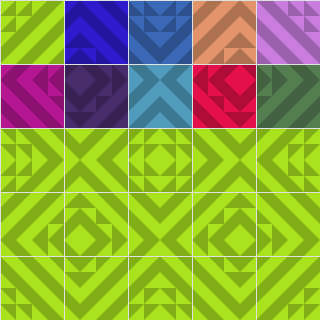
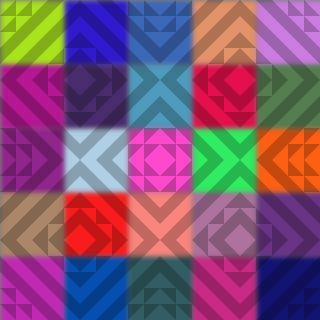
Read The Desc
* Shifted back the map loading logic into a separate class, MapLoader
* Generalised all kinds of drawing, ie, TextureRegion (a single image), Animation (gif animation like) and Map Tiles into the GeneralRenderingEngine

diff --git a/core/src/main/java/in/mcxiv/game/main/screens/MapViewerScreen.java b/core/src/main/java/in/mcxiv/game/main/screens/MapViewerScreen.java
@@ -16,11 +16,13 @@ import com.badlogic.gdx.math.Vector3;
 import com.badlogic.gdx.scenes.scene2d.Stage;
 import com.badlogic.gdx.utils.Align;
 import com.badlogic.gdx.utils.viewport.ExtendViewport;
+import com.kotcrab.vis.ui.widget.VisLabel;
 import com.kotcrab.vis.ui.widget.VisTable;
+import com.kotcrab.vis.ui.widget.VisTextArea;
 import in.mcxiv.game.main.MainEngine;
 import in.mcxiv.game.main.Resources;
-import in.mcxiv.game.systems.MapRenderingSystem;
-import in.mcxiv.game.systems.TextureRegionRenderingSystem;
+import in.mcxiv.game.main.maps.MapLoader;
+import in.mcxiv.game.systems.GeneralRenderingSystem;
 import in.mcxiv.game.util.GdxUtils;
 import in.mcxiv.game.util.InputProcessorIAdapter;
 
@@ -31,15 +33,13 @@ public class MapViewerScreen extends ScreenAdapter implements InputProcessorIAda
 
     public static final float CAMERA_MOVEMENT_SPEED = 2.5f;
     private static final WorldConfiguration CONFIGURATION = new WorldConfigurationBuilder()
-            .with(
-                    new MapRenderingSystem(),
-                    new TextureRegionRenderingSystem()
-            ).build();
+            .with(new GeneralRenderingSystem()).build();
 
     //////////////////////////
 
     public Stage mainStage;
     public VisTable mainTable;
+    public MapLoader mapLoader;
 
     //////////////////////////
 
@@ -68,6 +68,13 @@ public class MapViewerScreen extends ScreenAdapter implements InputProcessorIAda
         mainTable.setFillParent(true);
         mainTable.add(GdxUtils.createButton("Back", () -> MainEngine.getInstance().setScreen(MainEngine.getInstance().srn_home)))
                 .expand().pad(10).align(Align.topLeft);
+        mainTable.add(new VisLabel("" +
+                                   "Use WASD to move around\n" +
+                                   "Another line of instruction\n" +
+                                   "just to see the multiline\n" +
+                                   "in action." +
+                                   ""))
+                .expand().pad(10).align(Align.bottomRight);
         mainStage.addActor(mainTable);
 
         Gdx.input.setInputProcessor(new InputMultiplexer(mainStage, this));
@@ -82,21 +89,21 @@ public class MapViewerScreen extends ScreenAdapter implements InputProcessorIAda
         mouseCoords.set(camera.position);
 
         world = new World(CONFIGURATION);
-        MapRenderingSystem system = world.getSystem(MapRenderingSystem.class);
-        system.loadMap("default_world.bitmap");
-        system.setCamera(camera);
+        world.getSystem(GeneralRenderingSystem.class).setCamera(camera);
+
+        mapLoader = new MapLoader(world);
+        mapLoader.loadMap("default_world.bitmap");
     }
 
     @Override
     public void render(float delta) {
-        Gdx.gl.glClearColor(0.15f, 0.15f, 0.2f, 1f);
-        Gdx.gl.glClear(GL20.GL_COLOR_BUFFER_BIT);
-
         snapMouseCoordinates();
         processInputsBasedStateChanging();
 
         camera.update();
         res.batch.setProjectionMatrix(camera.combined);
+        Gdx.gl.glClearColor(0.15f, 0.15f, 0.2f, 1f);
+        Gdx.gl.glClear(GL20.GL_COLOR_BUFFER_BIT);
         res.batch.begin();
 
         world.setDelta(delta);

diff --git a/core/src/main/java/in/mcxiv/game/main/maps/MapLoader.java b/core/src/main/java/in/mcxiv/game/main/maps/MapLoader.java
@@ -1,0 +1,81 @@
+package in.mcxiv.game.main.maps;
+
+import com.artemis.Archetype;
+import com.artemis.ArchetypeBuilder;
+import com.artemis.ComponentMapper;
+import com.artemis.World;
+import com.badlogic.gdx.Gdx;
+import com.badlogic.gdx.graphics.Color;
+import com.badlogic.gdx.graphics.g2d.TextureRegion;
+import in.mcxiv.game.components.*;
+import in.mcxiv.game.main.Resources;
+
+import java.util.Scanner;
+
+import static in.mcxiv.game.main.MainEngine.TILE;
+
+public class MapLoader {
+
+    private static final ArchetypeBuilder MAP_CELL_ARCHETYPE = new ArchetypeBuilder()
+            .add(Position.class)
+            .add(MapCell.class)
+            .add(TextureRegionRenderable.class);
+
+    private static final ArchetypeBuilder SPAWN_POINT_ARCHETYPE = new ArchetypeBuilder()
+            .add(Position.class)
+            .add(SpawnPoint.class)
+            .add(AnimationRenderable.class);
+
+    protected ComponentMapper<Position> position;
+    protected ComponentMapper<MapCell> mapCell;
+    protected ComponentMapper<TextureRegionRenderable> textureRegionRenderable;
+    protected ComponentMapper<AnimationRenderable> animationRenderable;
+
+    private Archetype mapCellArchetype;
+    private Archetype spawnPointArchetype;
+    private World world;
+
+    public MapLoader(World world) {
+        this.world = world;
+        initialize();
+    }
+
+    public void initialize() {
+        world.inject(this);
+        mapCellArchetype = MAP_CELL_ARCHETYPE.build(world);
+        spawnPointArchetype = SPAWN_POINT_ARCHETYPE.build(world);
+    }
+
+    public MapSpecs loadMap(String path) {
+
+        Scanner sc = new Scanner(Gdx.files.internal(path).read(64));
+
+        while (sc.hasNext()) {
+            String[] split = sc.nextLine().split(",");
+            int x = Integer.parseInt(split[0].trim());
+            int y = Integer.parseInt(split[1].trim());
+
+            for (int i = 2; i < split.length; i++) {
+                int v = Integer.parseInt(split[i].trim());
+
+                if (v > 0) {
+                    int entity = this.world.create(mapCellArchetype);
+                    this.position.get(entity).position.set(x, y).scl(TILE);
+                    TextureRegion texture = this.mapCell.get(entity).construct(v).texture;
+                    this.textureRegionRenderable.get(entity).construct(texture, 1, 1);
+                } else if (v == -1) {
+                    int entity = this.world.create(spawnPointArchetype);
+                    this.position.create(entity).position.set(x, y);
+                    this.animationRenderable.get(entity).construct(Resources.getInstance().flagAnimation, Color.GREEN, -0.5f, 1, 2, 2);
+                }
+            }
+        }
+
+        return new MapSpecs();
+    }
+
+    public static class MapSpecs {
+        // TODO: Store variables which contain information about which tile was present the lowest in a given y
+        //  Then use that to draw more tiles of same type one after another to fill the better bottom of the screen.
+    }
+}

diff --git a/core/src/main/java/in/mcxiv/game/systems/GeneralRenderingSystem.java b/core/src/main/java/in/mcxiv/game/systems/GeneralRenderingSystem.java
@@ -4,33 +4,49 @@ import com.artemis.ComponentMapper;
 import com.artemis.annotations.All;
 import com.artemis.annotations.One;
 import com.artemis.systems.IteratingSystem;
+import com.badlogic.gdx.graphics.Camera;
 import com.badlogic.gdx.graphics.g2d.Batch;
 import com.badlogic.gdx.math.Vector2;
+import com.badlogic.gdx.math.Vector3;
 import in.mcxiv.game.components.AnimationRenderable;
 import in.mcxiv.game.components.Position;
 import in.mcxiv.game.components.TextureRegionRenderable;
 import in.mcxiv.game.main.Resources;
+import in.mcxiv.game.util.GdxUtils;
 
 @One({TextureRegionRenderable.class, AnimationRenderable.class})
 @All(Position.class)
-public class TextureRegionRenderingSystem extends IteratingSystem {
+public class GeneralRenderingSystem extends IteratingSystem {
     protected ComponentMapper<Position> position;
     protected ComponentMapper<TextureRegionRenderable> spriteRenderable;
     protected ComponentMapper<AnimationRenderable> animationRenderable;
 
     private Batch batch;
+    private Camera camera = null;
+    private Vector3 lowerBound = new Vector3();
+    private Vector3 upperBound = new Vector3();
 
     @Override
-    // TODO: Should it be `initialize` or `begin`?
     protected void initialize() {
         super.initialize();
         this.batch = Resources.getInstance().batch;
     }
 
+    public void setCamera(Camera camera) {
+        this.camera = camera;
+    }
+
+    @Override
+    protected void begin() {
+        if (camera == null) return;
+        GdxUtils.getLowerBoundOfTheVisibleRectangle(camera, lowerBound);
+        GdxUtils.getUpperBoundOfTheVisibleRectangle(camera, upperBound);
+    }
+
     @Override
     protected void process(int entityId) {
-        // TODO: Check if the cell needs drawing if it's in the screen. Draw only if required.
         Vector2 position = this.position.get(entityId).position;
+        if (camera != null && GdxUtils.isPointNotInVisibleRectangle(position, lowerBound, upperBound)) return;
         TextureRegionRenderable renderable1 = this.spriteRenderable.get(entityId);
         if (renderable1 != null) renderable1.draw(batch, position);
         AnimationRenderable renderable2 = this.animationRenderable.get(entityId);

diff --git a/core/src/main/java/in/mcxiv/game/util/GdxUtils.java b/core/src/main/java/in/mcxiv/game/util/GdxUtils.java
@@ -10,6 +10,7 @@ import com.badlogic.gdx.scenes.scene2d.utils.ChangeListener;
 import com.kotcrab.vis.ui.widget.VisTextButton;
 
 import static in.mcxiv.game.main.MainEngine.INV_TILE;
+import static in.mcxiv.game.main.MainEngine.TILE;
 
 public class GdxUtils {
 
@@ -30,12 +31,12 @@ public class GdxUtils {
 
     public static void getLowerBoundOfTheVisibleRectangle(Camera camera, Vector3 bound) {
         bound.set(0, Gdx.graphics.getHeight(), 0);
-        camera.unproject(bound).scl(INV_TILE).sub(1, 1, 0);
+        camera.unproject(bound).sub(TILE, TILE, 0);
     }
 
     public static void getUpperBoundOfTheVisibleRectangle(Camera camera, Vector3 bound) {
         bound.set(Gdx.graphics.getWidth(), 0, 0);
-        camera.unproject(bound).scl(INV_TILE);
+        camera.unproject(bound);
     }
 
     public static boolean isPointNotInVisibleRectangle(Vector2 position, Vector3 lowerBound, Vector3 upperBound) {

diff --git a/core/src/main/java/in/mcxiv/game/main/MainEngine.java b/core/src/main/java/in/mcxiv/game/main/MainEngine.java
@@ -11,7 +11,7 @@ import in.mcxiv.game.main.screens.MapViewerScreen;
  */
 public class MainEngine extends Game {
 
-    public static final boolean VR_DEBUGGING = true;
+    public static final boolean VR_DEBUGGING = false;
 
     public static void ifDebugging(Runnable action) {
         if (VR_DEBUGGING) action.run();
